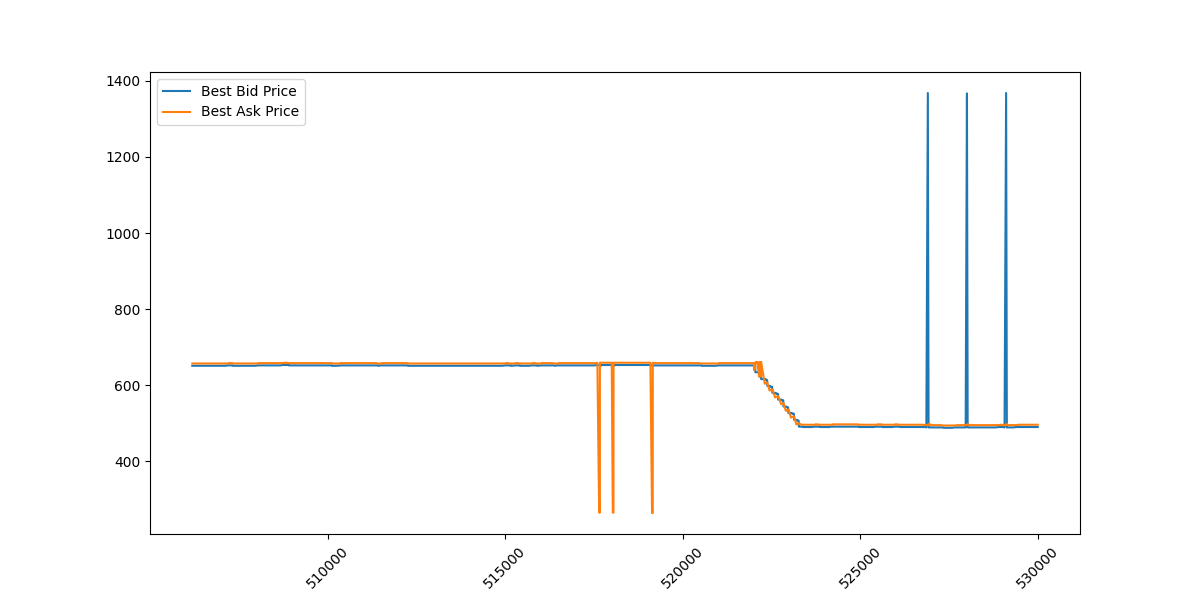
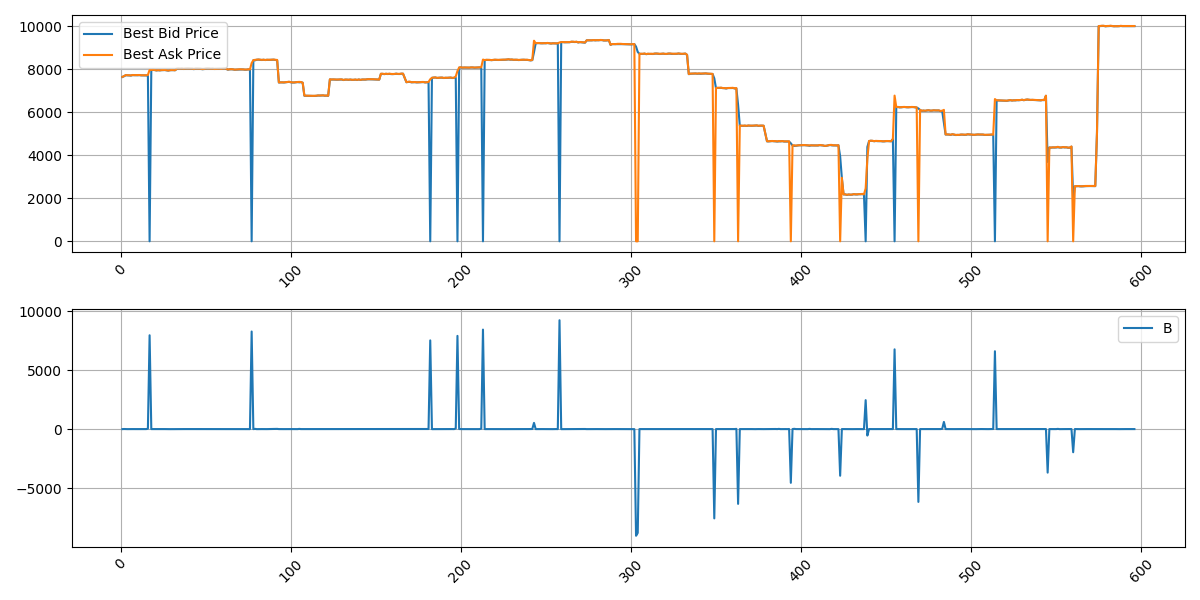
structured and unstructed plots

diff --git a/just_a_chill_bot.py b/just_a_chill_bot.py
@@ -110,7 +110,7 @@ class MyXchangeClient(xchange_client.XChangeClient):
     pnl_timeseries = pl.DataFrame(schema={
         "timestamp": pl.Int64,
         "pnl": pl.Int64,
-        "is_unstructured_news_event": pl.Int64
+        "is_news_event": pl.Int64
     })
     
     stock_LOB_timeseries = { 
@@ -560,7 +560,7 @@ class MyXchangeClient(xchange_client.XChangeClient):
             pnl_row = pl.DataFrame([{
                 "timestamp": current_time,
                 "pnl": int(pnl),
-                "is_unstructured_news_event": 0
+                "is_news_event": 0
             }])
             
             with self._lock:
@@ -576,15 +576,18 @@ class MyXchangeClient(xchange_client.XChangeClient):
         with self._lock:
             timestamp = self.pnl_timeseries["timestamp"].to_list()
             pnl = self.pnl_timeseries["pnl"].to_list()
-            unstructed_news_timestamps = self.pnl_timeseries["is_unstructured_news_event"].to_list()
             
         plt.plot(timestamp, pnl, label="PnL", linestyle="-", markersize=1)
 
-        news_events = self.pnl_timeseries.filter(pl.col("is_unstructured_news_event") == 1)
+        unstructured_news_events = self.pnl_timeseries.filter(pl.col("is_news_event") == 1)
+        structured_news_events = self.pnl_timeseries.filter(pl.col("is_news_event") == 2)
         
         # Add vertical lines for important timestamp
-        for ts in news_events["timestamp"].to_list():
+        for ts in unstructured_news_events["timestamp"].to_list():
             plt.axvline(x=ts, color='r', linestyle='--', alpha=0.5)
+        
+        for ts in structured_news_events["timestamp"].to_list(): 
+            plt.axvline(x=ts, color='g',linestyle='--', alpha=0.5)
         
         plt.legend()
         plt.grid(True)

diff --git a/apt_bot.py b/apt_bot.py
@@ -118,6 +118,12 @@ class APTBot(Compute):
         self.earnings = earnings 
         self.calc_fair_value()
         print("handling earnings: ", self.fair_value)
+        self.parent_client.pnl_timeseries = self.parent_client.pnl_timeseries.with_columns(
+            pl.when(pl.col("timestamp") == pl.col("timestamp").max())
+                .then(2)
+                .otherwise(pl.col("is_news_event"))
+                .alias("is_news_event")
+        )
         
     def get_fair_value(self): 
         if self.earnings is None: 
@@ -152,8 +158,8 @@ class APTBot(Compute):
             self.parent_client.pnl_timeseries = self.parent_client.pnl_timeseries.with_columns(
                 pl.when(pl.col("timestamp") == pl.col("timestamp").max())
                 .then(1)
-                .otherwise(pl.col("is_unstructured_news_event"))
-                .alias("is_unstructured_news_event")
+                .otherwise(pl.col("is_news_event"))
+                .alias("is_news_event")
             )
     
     def calc_volatility(self):
